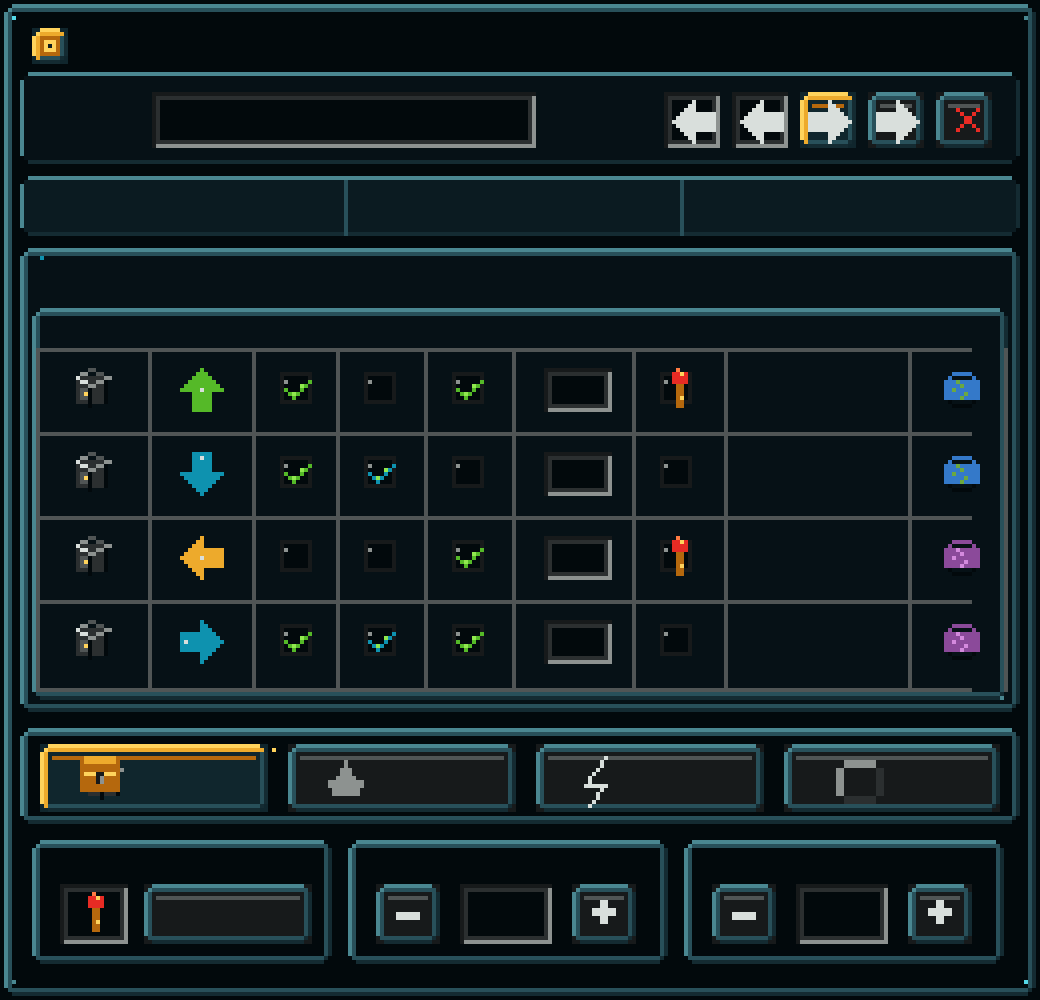
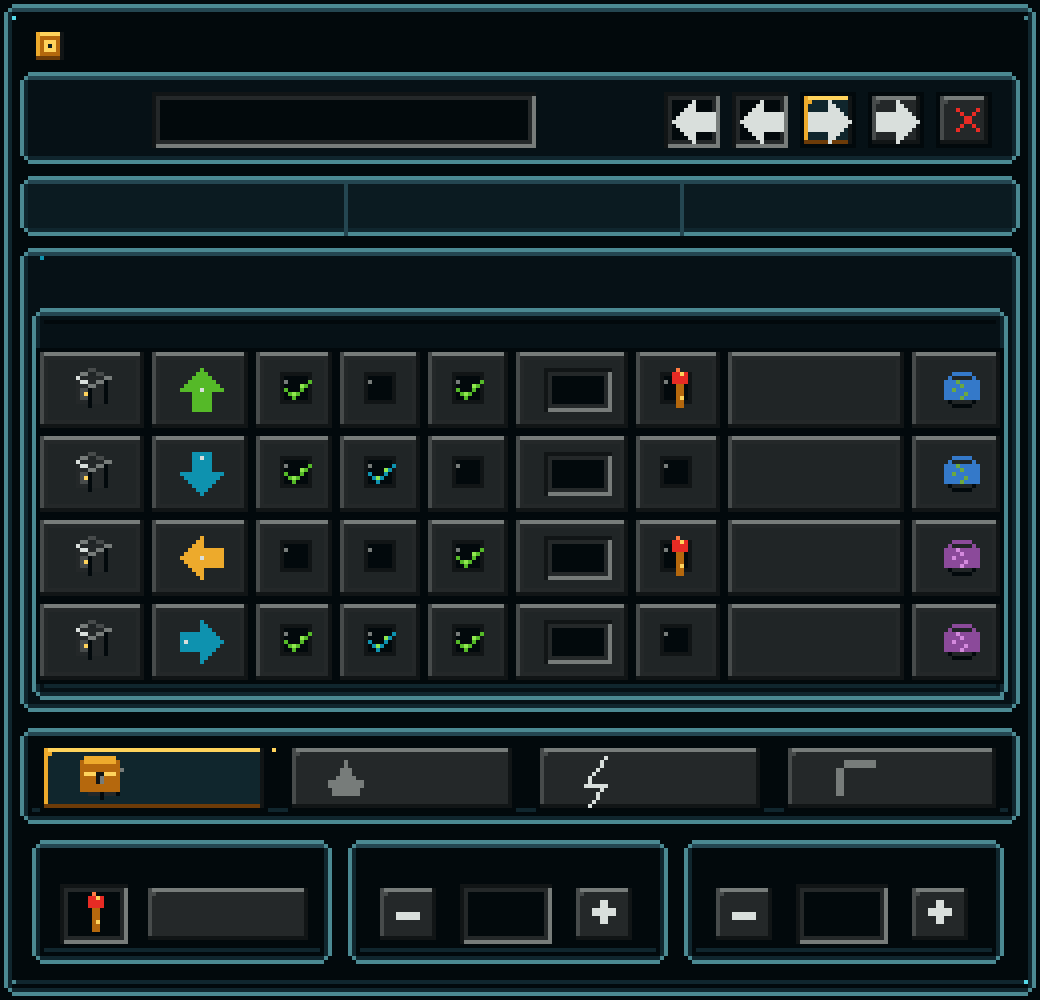
art: match native pixel GUI bevel style

diff --git a/scripts/render_native_pixel_gui.js b/scripts/render_native_pixel_gui.js
@@ -9,8 +9,8 @@ const rgba = Buffer.alloc(W * H * 4);
 
 const C = {
   void: '#02090c', ink: '#061116', panel: '#0b1b21', panel2: '#10262d',
-  edge0: '#142b32', edge1: '#28505a', edge2: '#4a8791', steel0: '#171a1b',
-  steel1: '#2b2f30', steel2: '#505555', steel3: '#8d9290', white: '#d9dfdc',
+  edge0: '#10262e', edge1: '#244651', edge2: '#4b8992', steel0: '#111516',
+  steel1: '#242829', steel2: '#474b4b', steel3: '#777c7a', white: '#d9dfdc',
   gold0: '#6d3b08', gold1: '#b5680d', gold2: '#edaa2c', gold3: '#ffd35c',
   cyan0: '#075267', cyan1: '#0e92af', cyan2: '#55d8e7', green0: '#245d0d',
   green1: '#55b928', green2: '#91e94f', red0: '#751313', red1: '#e72b24',
@@ -44,6 +44,16 @@ function frame(x, y, w, h, active = false) {
   pixel(x + 1, y + 1, hi); pixel(x + w - 2, y + 1, mid);
   pixel(x + 1, y + h - 2, mid); pixel(x + w - 2, y + h - 2, C.edge0);
 }
+function carvedFrame(x, y, w, h) {
+  // Narrow double cyan outline with clipped Minecraft-style corners.
+  rect(x + 2, y, w - 4, 1, C.edge2); rect(x + 1, y + 1, w - 2, 1, C.edge1);
+  rect(x, y + 2, 1, h - 4, C.edge2); rect(x + 1, y + 2, 1, h - 4, C.edge0);
+  rect(x + 2, y + h - 1, w - 4, 1, C.edge2); rect(x + 1, y + h - 2, w - 2, 1, C.edge0);
+  rect(x + w - 1, y + 2, 1, h - 4, C.edge2); rect(x + w - 2, y + 2, 1, h - 4, C.edge0);
+  pixel(x + 1, y + 1, C.edge2); pixel(x + w - 2, y + 1, C.edge2);
+  pixel(x + 1, y + h - 2, C.edge2); pixel(x + w - 2, y + h - 2, C.edge2);
+  rect(x + 3, y + 3, w - 6, 1, C.void); rect(x + 3, y + h - 4, w - 6, 1, C.edge0);
+}
 function inset(x, y, w, h, active = false) {
   rect(x, y, w, h, C.steel0); rect(x + 1, y + 1, w - 2, h - 2, C.steel1);
   rect(x + 2, y + 2, w - 4, h - 4, C.void);
@@ -51,8 +61,22 @@ function inset(x, y, w, h, active = false) {
   rect(x + w - 1, y + 1, 1, h - 1, active ? C.gold1 : C.steel3);
 }
 function button(x, y, w, h, active = false) {
-  rect(x, y, w, h, active ? C.panel2 : C.steel0); frame(x, y, w, h, active);
-  rect(x + 3, y + 3, w - 6, 1, active ? C.gold1 : C.steel2);
+  rect(x, y, w, h, C.void);
+  rect(x + 1, y + 1, w - 2, h - 2, active ? C.panel2 : C.steel1);
+  rect(x + 1, y + 1, w - 2, 1, active ? C.gold3 : C.steel3);
+  rect(x + 1, y + 1, 1, h - 2, active ? C.gold2 : C.steel2);
+  rect(x + 1, y + h - 2, w - 2, 1, active ? C.gold0 : C.steel0);
+  rect(x + w - 2, y + 1, 1, h - 2, C.steel0);
+  pixel(x + 2, y + 2, active ? C.gold2 : C.steel2);
+}
+function tableCell(x, y, w, h) {
+  rect(x, y, w, h, C.void);
+  rect(x + 1, y + 1, w - 2, h - 2, C.steel1);
+  rect(x + 1, y + 1, w - 2, 1, C.steel3);
+  rect(x + 1, y + 1, 1, h - 2, C.steel2);
+  rect(x + 1, y + h - 2, w - 2, 1, C.steel0);
+  rect(x + w - 2, y + 1, 1, h - 2, C.steel0);
+  rect(x + 3, y + 3, w - 6, h - 6, '#202526');
 }
 function check(x, y, on, color = C.green1) {
   rect(x, y, 8, 8, C.steel0); rect(x + 1, y + 1, 6, 6, C.void); pixel(x + 1, y + 2, C.steel3);
@@ -98,20 +122,23 @@ function minus(x, y, color = C.white) { rect(x, y + 2, 6, 2, color); }
 async function main() {
   rect(0, 0, W, H, C.void);
   // Outer carved frame and title band.
-  frame(1, 1, 258, 248); frame(5, 18, 250, 23); frame(5, 44, 250, 15);
-  rect(6, 19, 248, 21, C.ink); rect(6, 45, 248, 13, C.panel);
+  carvedFrame(1, 1, 258, 248); carvedFrame(5, 18, 250, 23); carvedFrame(5, 44, 250, 15);
+  rect(7, 20, 246, 19, C.ink); rect(7, 46, 246, 11, C.panel);
   // Original title emblem, authored at logical resolution.
   button(8, 7, 9, 9, true); rect(10, 9, 5, 5, C.gold1); rect(11, 10, 3, 3, C.gold3); pixel(12, 11, C.panel);
   inset(38, 23, 96, 14); inset(166, 23, 14, 14); inset(183, 23, 14, 14); button(200, 23, 14, 14, true); button(217, 23, 14, 14); button(234, 23, 14, 14);
   arrow(173, 30, 'left', C.white); arrow(190, 30, 'left', C.white); arrow(207, 30, 'right', C.white); arrow(224, 30, 'right', C.white);
   line(239, 27, 244, 32, C.red1); line(244, 27, 239, 32, C.red1);
   line(86, 45, 86, 58, C.edge1); line(170, 45, 170, 58, C.edge1);
-  // Main connection table shell.
-  frame(5, 62, 250, 116); rect(7, 64, 246, 112, C.ink);
-  frame(8, 77, 244, 98);
+  // Main connection table shell: cyan double frame outside, beveled steel table inside.
+  carvedFrame(5, 62, 250, 116); rect(7, 64, 246, 112, C.ink);
+  carvedFrame(8, 77, 244, 98);
   const cols = [9,37,63,84,106,128,158,181,227,251];
-  for (const x of cols) line(x, 87, x, 172, C.steel2);
-  for (const y of [87,108,129,150,172]) line(9, y, 242, y, C.steel2);
+  for (let row = 0; row < 4; row++) {
+    for (let col = 0; col < cols.length - 1; col++) {
+      tableCell(cols[col], 87 + row * 21, cols[col + 1] - cols[col], 21);
+    }
+  }
   for (let row = 0; row < 4; row++) {
     const cy = 97 + row * 21;
     cube(17, cy - 5);
@@ -121,7 +148,7 @@ async function main() {
     globe(236, cy - 4, row >= 2);
   }
   // Bottom selector row.
-  frame(5, 182, 250, 24); button(10, 186, 57, 17, true); button(72, 186, 57, 17); button(134, 186, 57, 17); button(196, 186, 54, 17);
+  carvedFrame(5, 182, 250, 24); button(10, 186, 57, 17, true); button(72, 186, 57, 17); button(134, 186, 57, 17); button(196, 186, 54, 17);
   cube(20, 190); // chest-like gold selector
   rect(20, 190, 10, 8, C.gold1); rect(21, 189, 8, 2, C.gold2); rect(21, 193, 8, 1, C.gold3); inset(24, 193, 2, 3);
   // droplet, lightning, auto ring.
@@ -129,7 +156,7 @@ async function main() {
   line(151, 189, 146, 196, C.white); line(146, 196, 151, 196, C.white); line(151, 196, 147, 201, C.white);
   rect(211, 190, 8, 2, C.steel3); rect(209, 192, 2, 7, C.steel3); rect(219, 192, 2, 7, C.steel1); rect(211, 199, 8, 2, C.steel1);
   // Lower controls.
-  frame(8, 210, 75, 31); frame(87, 210, 80, 31); frame(171, 210, 80, 31);
+  carvedFrame(8, 210, 75, 31); carvedFrame(87, 210, 80, 31); carvedFrame(171, 210, 80, 31);
   inset(15, 221, 17, 15); torch(21, 223); button(36, 221, 42, 15);
   button(94, 221, 16, 15); inset(115, 221, 23, 15); button(143, 221, 16, 15); minus(99, 226); plus(148, 225);
   button(178, 221, 16, 15); inset(199, 221, 23, 15); button(227, 221, 16, 15); minus(183, 226); plus(232, 225);
